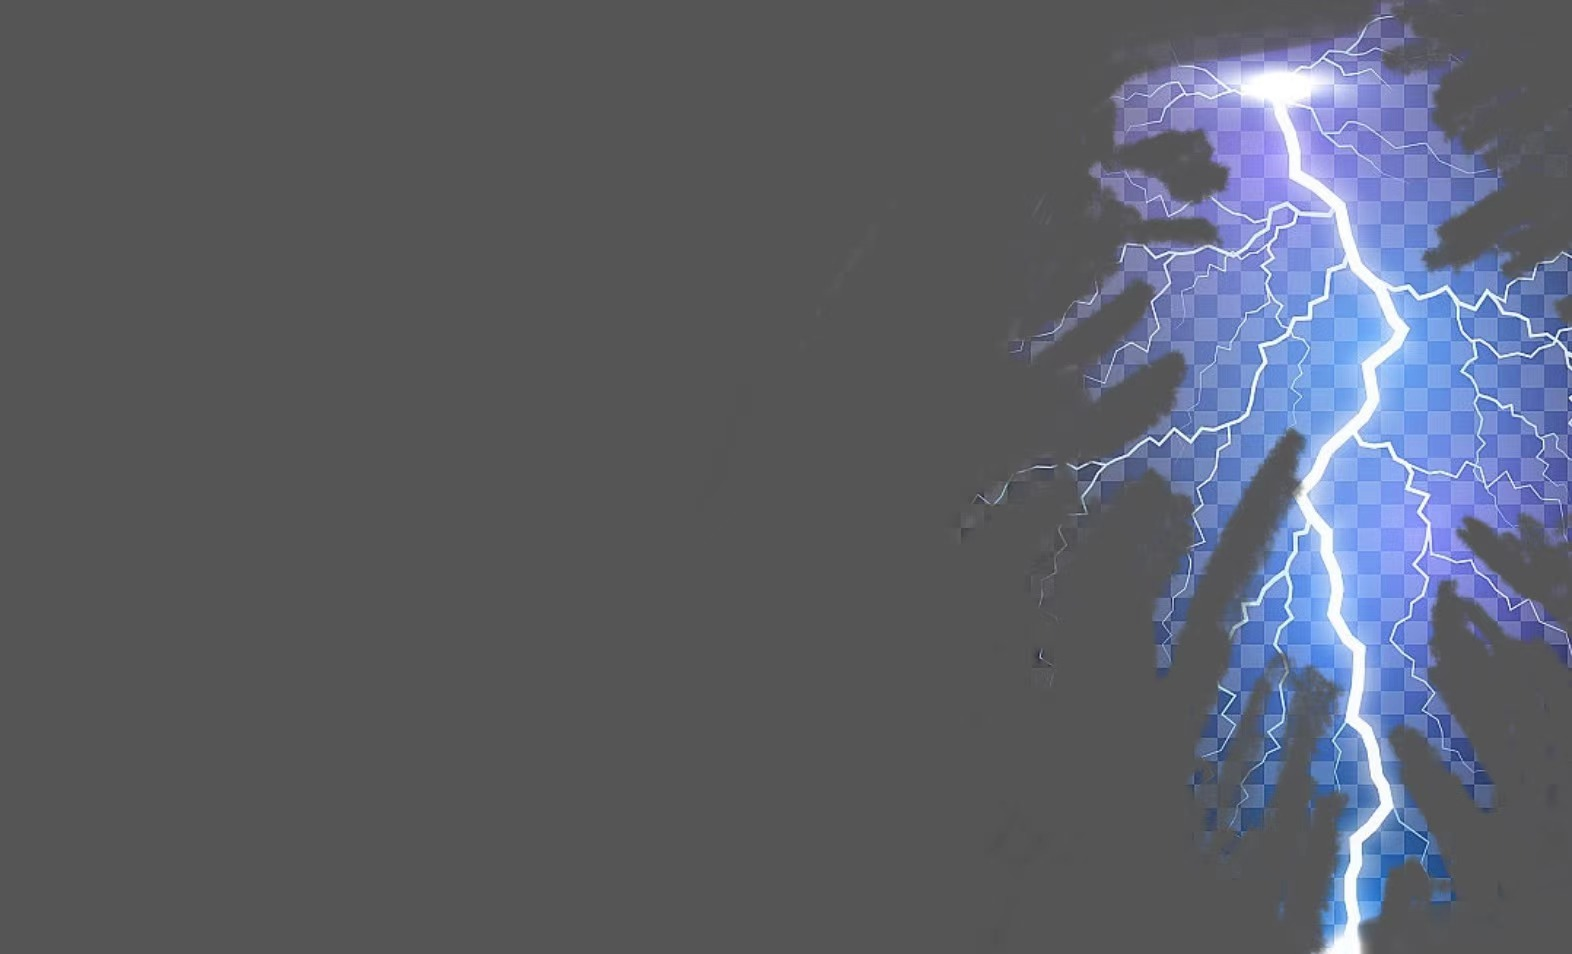
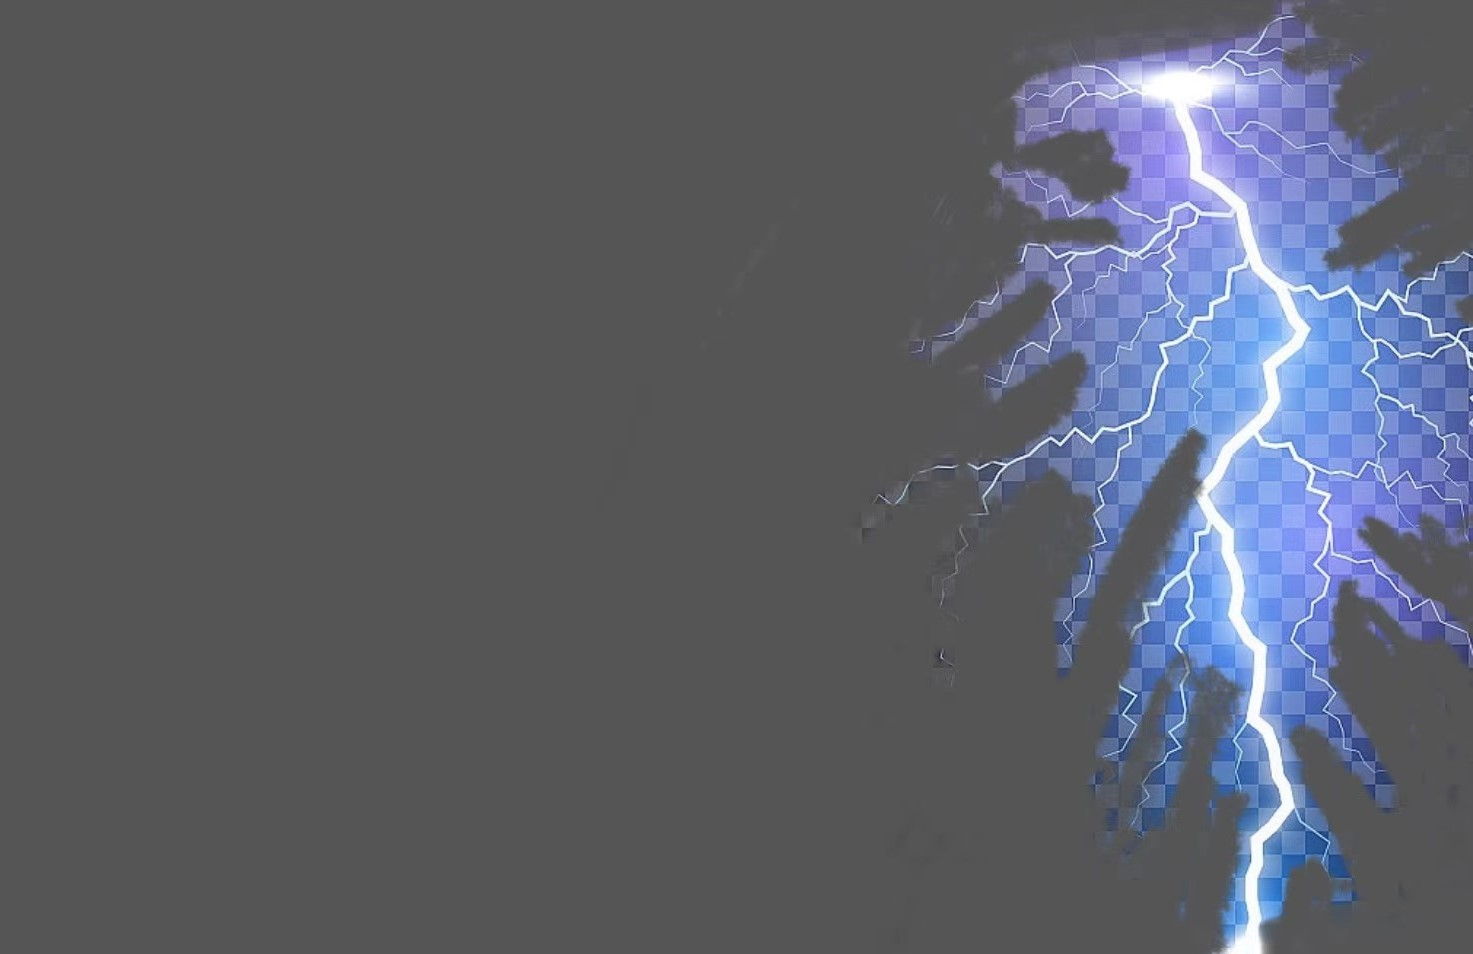
V2.0 左移一些level-night背景图片 给login增加标题 更改boxongoal样式 //todo：level1现在打不开 //todo：美化标签背景等

Changed region(s): [[0.6246, 0.0, 0.9993, 1.0], [0.5933, 0.5168, 0.6246, 0.5472]]

diff --git a/src/view/login/LoginFrame.java b/src/view/login/LoginFrame.java
@@ -45,7 +45,7 @@ public class LoginFrame extends JFrame {
             throw new RuntimeException("Failed to load background image", e);
         }
         view.login.BackgroundPanel backgroundPanel = new view.login.BackgroundPanel(backgroundImage);
-        backgroundPanel.setBounds(0, 0, this.getWidth(), this.getHeight());
+        backgroundPanel.setBounds(0, 0, 1750, 890);
         layeredPane.add(backgroundPanel, JLayeredPane.DEFAULT_LAYER);
 
         JLabel userLabel = FrameUtil.createJLabel(layeredPane, new Point(680, 300), 70, 40, "username:",JLayeredPane.MODAL_LAYER);

diff --git a/src/view/level/LevelFrame.java b/src/view/level/LevelFrame.java
@@ -41,7 +41,7 @@ public class LevelFrame extends JFrame {
             }
         }
         view.login.BackgroundPanel backgroundPanel = new view.login.BackgroundPanel(levelImage);
-        backgroundPanel.setBounds(0, 0, this.getWidth(), this.getHeight());
+        backgroundPanel.setBounds(0, 0, 1800,900 );
         layeredPane.add(backgroundPanel, JLayeredPane.DEFAULT_LAYER);
 
         JButton level1Btn = FrameUtil.createButton(layeredPane, "Level1", new Point(150, height / 2 - 50), 600, 100,JLayeredPane.MODAL_LAYER);
